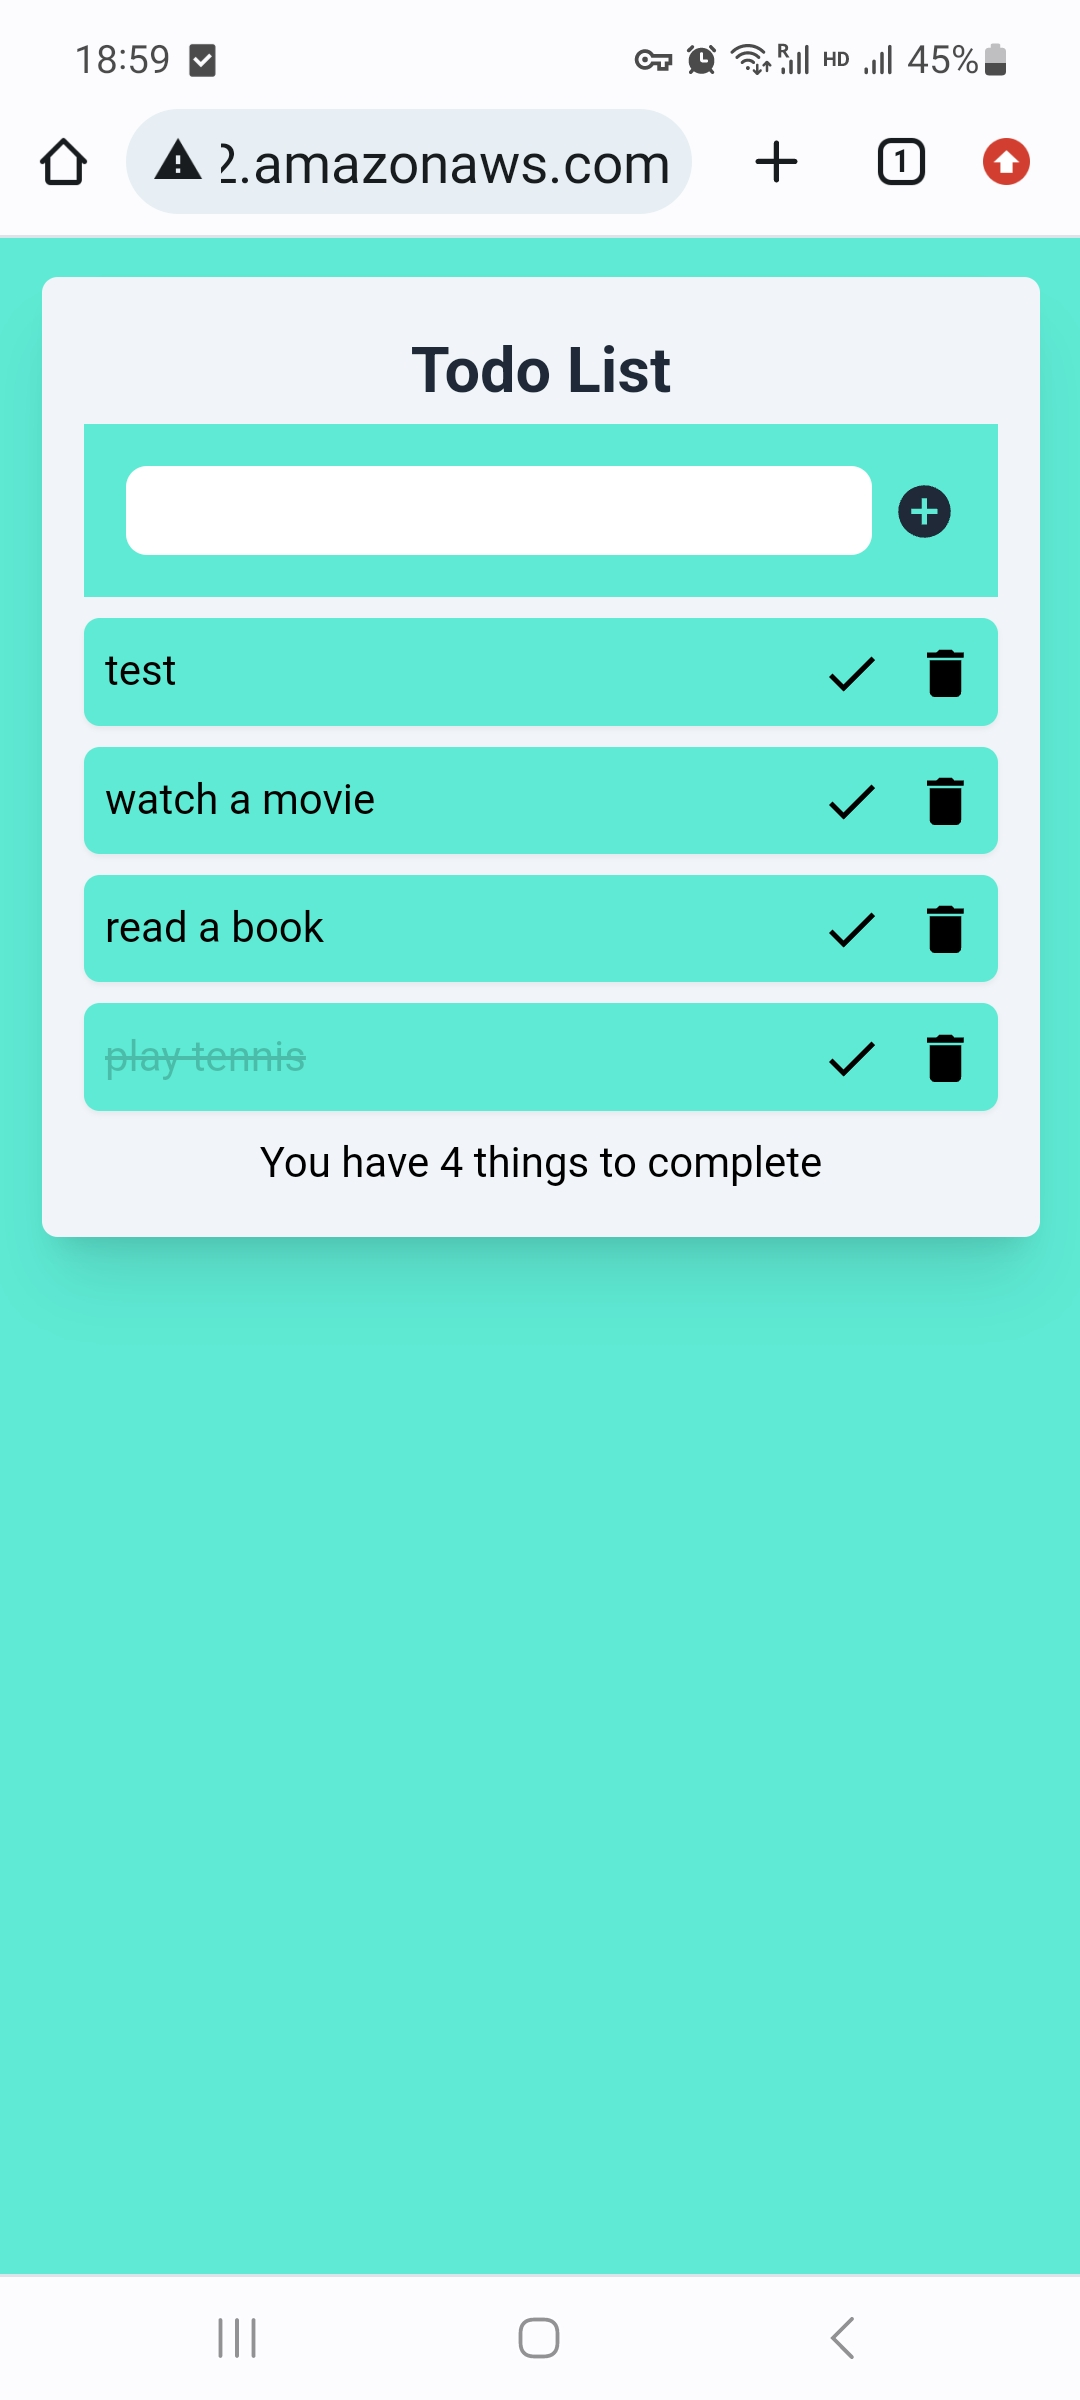
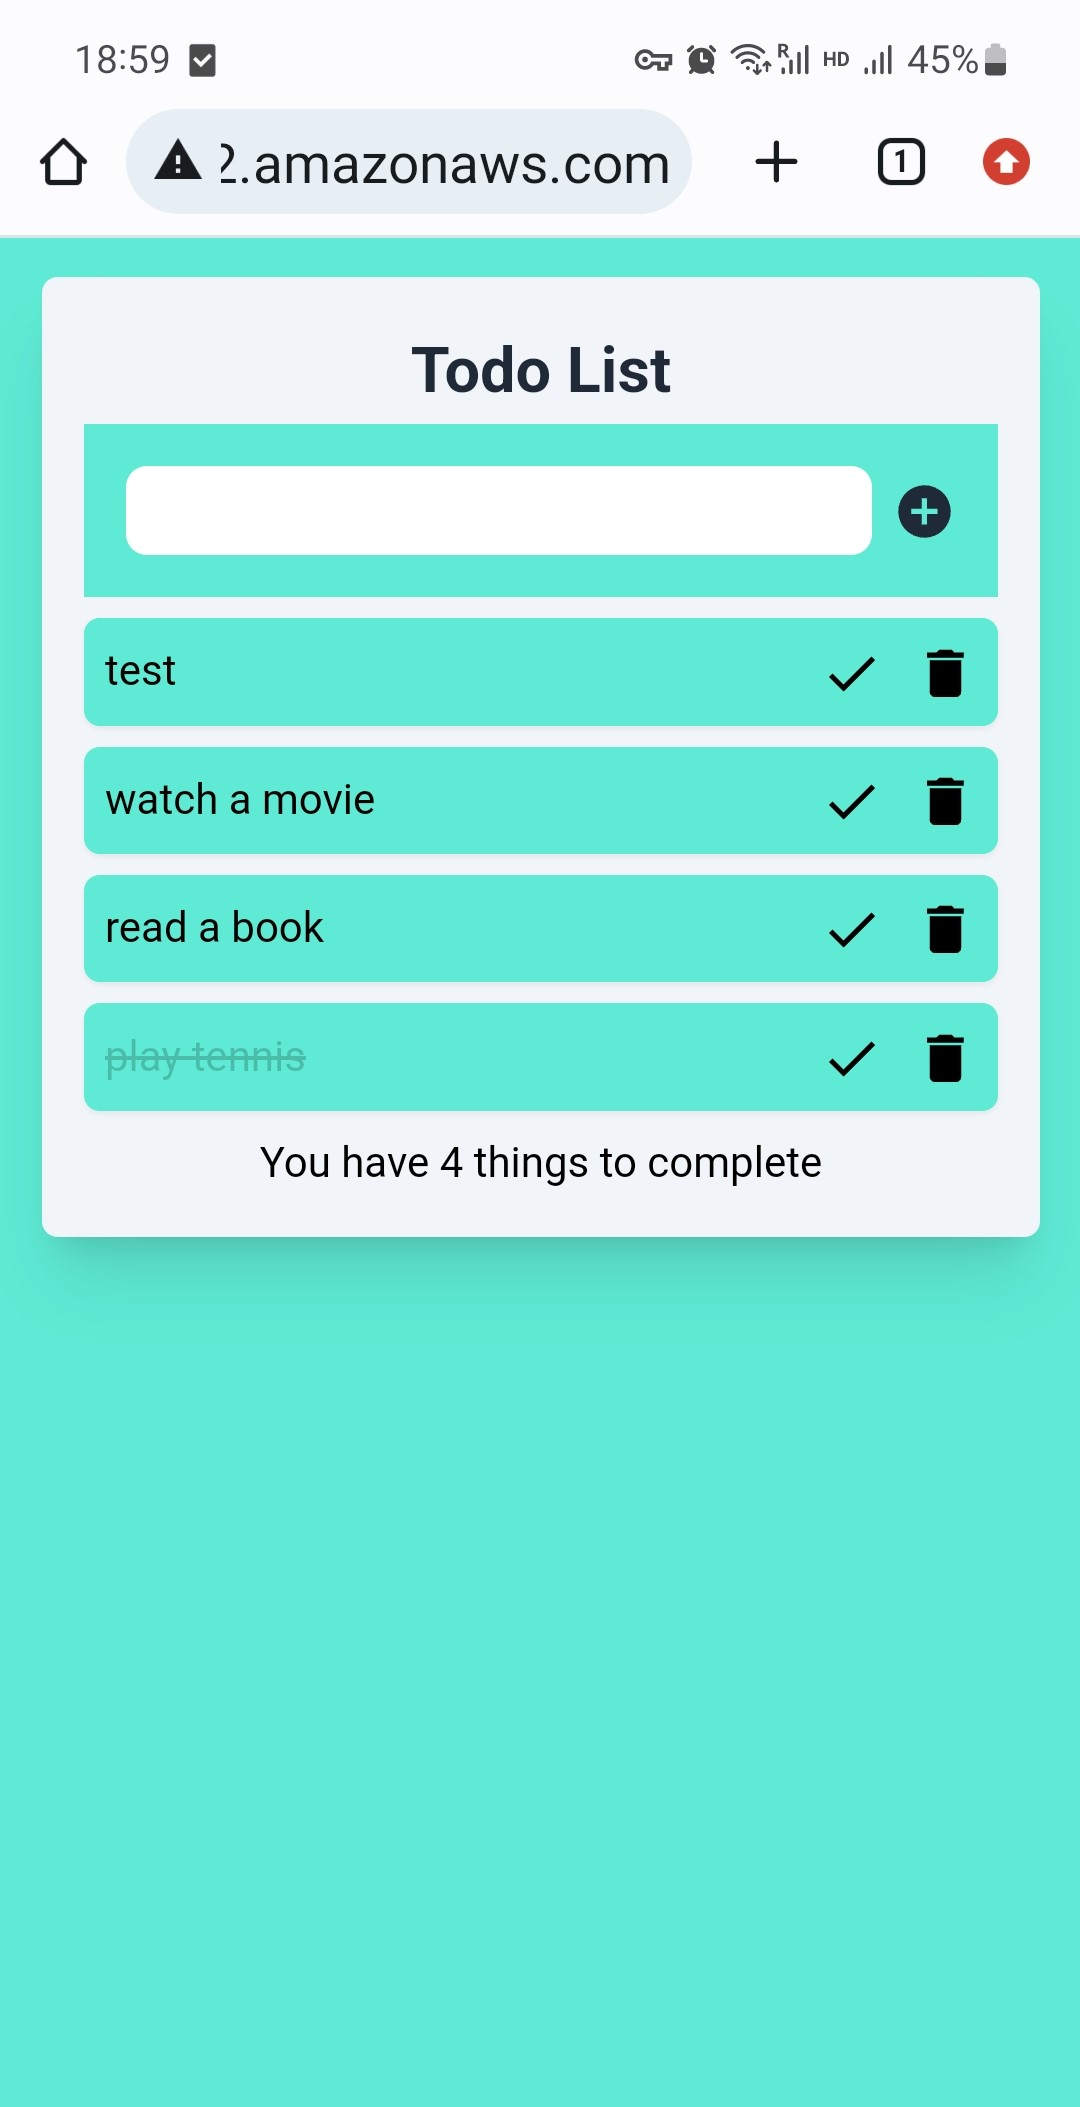
modify image

diff --git a/README.md b/README.md
@@ -9,7 +9,7 @@ The pc view:
 
 The mobile view:
 
-![PC View](project_images/mobile_view.jpg)
+![PC View](project_images/mobile_view_2.jpg)
 
 ## How to run the code
 1. Begin by cloning this repository.
